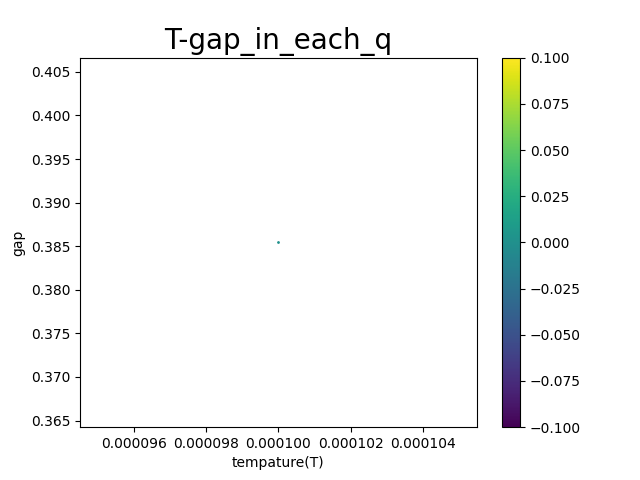
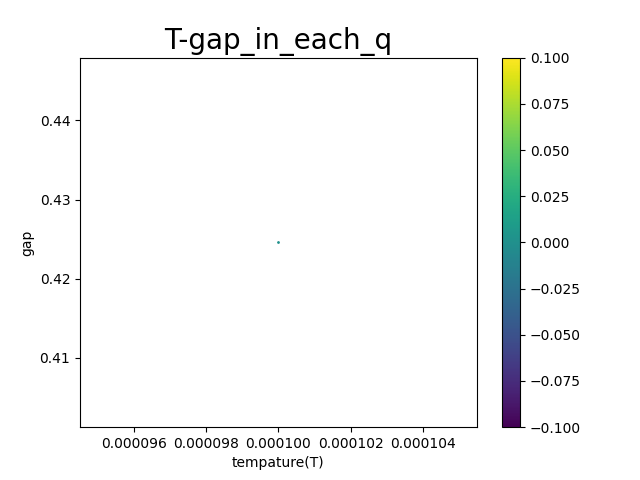
theta with zet & scf 10

diff --git a/theory/Eliashberg/elishberg_2/debug/main_faeb_rewrite.py b/theory/Eliashberg/elishberg_2/debug/main_faeb_rewrite.py
@@ -22,7 +22,7 @@ class parameters:
         self.fmc_max  = 0.05
         self.fmc_min  = 0.0
         self.nfmc  = 1
-        self.nscf = 4
+        self.nscf = 10
 
 class irfunc:
     def __init__(self, Lambda, beta, eps=1e-7):
